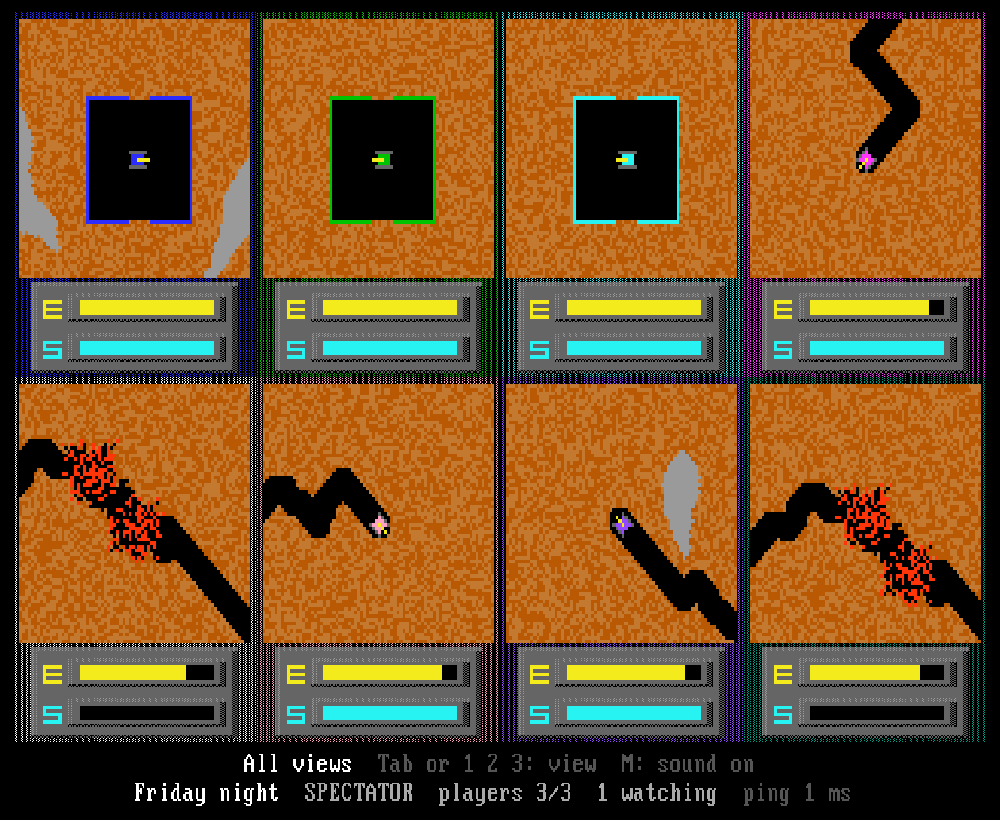
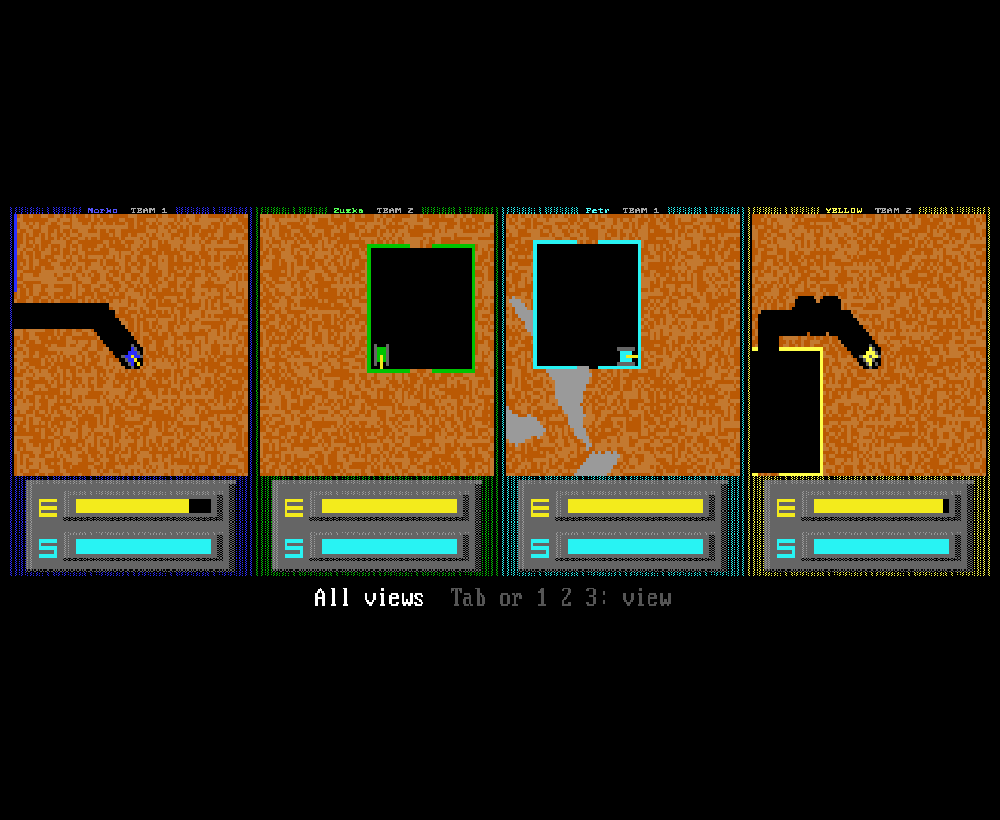
After death watch others within the view limit; README screenshots (tools/readme-screenshots.js)

diff --git a/tools/readme-screenshots.js b/tools/readme-screenshots.js
@@ -1,0 +1,82 @@
+// The README's screenshots (1000x820, screenshots/*.png) from a running server:
+//   PORT=8102 node server.js &      (a fresh one: it gets a few public test games)
+//   node tools/readme-screenshots.js 8102 screenshots
+// Needs playwright-core (not a dependency: npm i --no-save playwright-core) and a Chromium - set CHROME
+// to its executable (default: playwright's download in ~/.cache/ms-playwright). The browser runs with
+// the GPU off (software rendering).
+const { chromium } = require('playwright-core');
+const CHROME = process.env.CHROME || (() => {
+  const dir = require('path').join(require('os').homedir(), '.cache/ms-playwright');
+  const d = require('fs').readdirSync(dir).filter(n => n.startsWith('chromium-')).sort().pop();
+  return dir + '/' + d + '/chrome-linux64/chrome';
+})();
+const PORT = process.argv[2], OUT = process.argv[3], B = 'http://localhost:' + PORT;
+const sleep = ms => new Promise(r => setTimeout(r, ms));
+const api = async (body) => (await fetch(B + '/api/rooms', { method: 'POST', headers: { 'Content-Type': 'application/json' }, body: JSON.stringify(body) })).json();
+const S = (kind, team) => ({ kind, team });
+const fill = a => { while (a.length < 8) a.push(S('none', a.length + 1)); return a; };
+(async () => {
+  const b = await chromium.launch({ args: ['--disable-gpu', '--use-angle=swiftshader', '--use-gl=angle', '--disable-gpu-compositing'], executablePath: CHROME });
+  const errs = [];
+  const page = async (ls, url) => {
+    const ctx = await b.newContext({ viewport: { width: 1000, height: 820 } });
+    await ctx.addInitScript(o => { for (const k in o) localStorage.setItem(k, o[k]); }, ls || {});
+    const p = await ctx.newPage(); p.on('pageerror', e => errs.push(url + ': ' + e.message));
+    await p.goto(B + url); return p;
+  };
+  const shot = (p, f) => p.screenshot({ path: OUT + '/' + f });
+  const until = async (p, fn, ms = 30000) => { const t = Date.now(); while (Date.now() - t < ms) { if (await p.evaluate(fn).catch(() => false)) return true; await sleep(200); } return false; };
+  const hold = async (p, keys, ms) => { for (const k of keys) await p.keyboard.down(k); await sleep(ms); for (const k of keys) await p.keyboard.up(k); };
+  try {
+    // home
+    let p = await page({}, '/'); await sleep(1000); await shot(p, 'home.png'); await p.close();
+    // vs computer: 2 v 2 against computer tanks
+    p = await page({ 'tunneler.cpu.slots': JSON.stringify(fill([S('you', 1), S('hard', 2), S('normal', 1), S('hard', 2)])),
+      'tunneler.cpu.view': 'team', 'tunneler.cpu.time': '3', 'tunneler.cpu.watch': 'others' }, '/');
+    await sleep(800); await p.keyboard.press('ArrowDown'); await p.keyboard.press('Enter'); await sleep(500); await shot(p, 'vs-computer.png'); await p.close();
+    // split screen, both tanks digging
+    p = await page({}, '/play.html?mode=hotseat&size=medium&win=3');
+    await until(p, () => tunnelerEngine().screen === 'play');
+    await hold(p, ['KeyS', 'ArrowUp'], 1800); await hold(p, ['KeyD', 'ArrowLeft'], 1600); await hold(p, ['KeyS', 'KeyD', 'ArrowUp', 'ArrowLeft'], 900);
+    await sleep(300); await shot(p, 'split-screen.png'); await p.close();
+    // public games for the list
+    const main = await api({ name: 'Friday night', public: true, spectators: true, size: 'medium', winScore: 3, roundTime: 3, friendlyFire: false,
+      visible: 'team', watchOut: 'others', slots: fill([S('human', 1), S('human', 2), S('human', 1), S('hard', 2)]) });
+    await api({ name: 'Duel at dawn', public: true, spectators: true, slots: fill([S('human', 1), S('human', 2)]) });
+    await api({ name: 'Team rumble', public: true, spectators: true, size: 'large', winScore: 5, slots: fill([S('human', 1), S('expert', 2), S('human', 1), S('expert', 2), S('human', 1), S('expert', 2), S('human', 1), S('expert', 2)]) });
+    await api({ name: 'Żółw vs 王小明', public: true, spectators: false, size: 'small', slots: fill([S('human', 1), S('human', 2), S('easy', 3)]) });
+    p = await page({ 'tunneler.online': JSON.stringify({ size: 'medium', winScore: 3, roundTime: 3, friendlyFire: false, visible: 'team', watchOut: 'others',
+      slots: fill([S('human', 1), S('human', 2), S('human', 1), S('hard', 2)]) }) }, '/lobby.html'); await sleep(1200); await shot(p, 'lobby.png');
+    // the create screen
+    await p.evaluate(() => { const u = tunnelerLobbyUI(); u.sel = u.spec.items.findIndex(i => /create/i.test(i.key || '') || /Create/.test(i.label || '')); u.draw(); });
+    await p.keyboard.press('Enter'); await sleep(300);
+    await p.keyboard.type('Friday night'); await sleep(200);
+    await p.evaluate(() => { const u = tunnelerLobbyUI(); u.sel = u.spec.items.findIndex(i => i.key === 'slot3'); u.draw(); });
+    await shot(p, 'create.png'); await p.close();
+    // the online game: Norko (BLUE, host) + Petr (CYAN) against Zuzka (GREEN) + a hard computer tank (YELLOW)
+    const id = main.id, url = r => '/online.html?room=' + id + '&role=' + r;
+    const blue = await page({ ['tunneler.host.' + id]: main.hostKey, 'tunneler.name': 'Norko', 'tunneler.view': 'team', 'tunneler.ping': '1' }, url('blue'));
+    const green = await page({ 'tunneler.name': 'Zuzka' }, url('green'));
+    const cyan = await page({ 'tunneler.name': 'Petr' }, url('cyan'));
+    const spec = await page({ 'tunneler.name': 'Kiko' }, url('spectate'));
+    await sleep(2500);
+    for (const [pg, msg] of [[green, 'gl hf!'], [cyan, 'Привет! 👋 ready when you are']]) {
+      await pg.evaluate(() => { const u = tunnelerLobbyUI(); u.sel = u.spec.items.findIndex(i => i.key === 'say'); u.draw(); });
+      await pg.evaluate(m => { for (const ch of m) window.dispatchEvent(new KeyboardEvent('keydown', { key: ch, code: 'KeyQ', bubbles: true })); }, msg);
+      await pg.keyboard.press('Enter'); await sleep(300);
+      await pg.evaluate(() => { const u = tunnelerLobbyUI(); u.sel = u.spec.items.findIndex(i => i.key === 'start'); u.draw(); });
+      await pg.keyboard.press('Enter'); await sleep(500);
+    }
+    await blue.evaluate(() => { const u = tunnelerLobbyUI(); u.sel = u.spec.items.findIndex(i => i.key === 'start'); u.draw(); });
+    await sleep(800); await shot(blue, 'online-lobby.png');
+    await blue.keyboard.press('Enter');
+    await until(blue, () => tunnelerEngine().screen === 'play');
+    await Promise.all([hold(blue, ['KeyS'], 2500), hold(cyan, ['ArrowDown'], 2000), hold(green, ['ArrowLeft', 'ArrowUp'], 3000)]);
+    await Promise.all([hold(blue, ['KeyD', 'Space'], 2500), hold(cyan, ['ArrowRight', 'ArrowDown'], 2500), hold(green, ['KeyS'], 2000)]);
+    await Promise.all([hold(blue, ['KeyS', 'KeyD'], 1500), hold(cyan, ['ArrowRight'], 1500)]);
+    await sleep(500); await shot(blue, 'online-team.png');
+    await spec.keyboard.press('Digit1'); await sleep(800); await shot(spec, 'spectator-grid.png');
+    await spec.keyboard.press('Digit2'); await sleep(1200); await shot(spec, 'spectator-map.png');
+    console.log('errors', JSON.stringify(errs));
+  } finally { await b.close(); }
+})();

diff --git a/test/local-check.js b/test/local-check.js
@@ -343,6 +343,16 @@ function play(search) {
   e.killedBy = [0, 0, 0, 0, 0, 0];
   const alive = (...on) => { e.alive = [false, ...on]; return v.layout(); };
   same(alive(true, true, true, true, true).cells, [0, 3], "alive: the scope's views (own team)");
+  // view limit "team": only teammates are watched - not the enemy that shot you
+  e.killedBy[1] = 3;                                        // CYAN (team 2) shot you
+  same(alive(false, true, true, true, true).cells, [3], "team view: your teammate (YELLOW), not your killer");
+  same(alive(false, true, true, false, true).cells, [0, 3], "team view, no teammate left: the team's views (wrecks)");
+  alive(true, true, true, true, true);
+  v.setScope(0, "self");
+  same(alive(false, true, true, true, true).cells, [0], "self view: nobody else, your wreck");
+  alive(true, true, true, true, true);
+  v.setScope(0, "everyone");                                // (everyone: any tank alive)
+  e.killedBy[1] = 0;
   let L = alive(false, true, true, true, true);
   same([L.cells, !!L.labels], [[3], true], "out, no killer (energy): the first alive, own team's first (YELLOW)");
   alive(true, true, true, true, true);                      // (next round)
@@ -356,8 +366,8 @@ function play(search) {
   same(alive(false, true, false, true, true).cells, [4], "the watched one destroyed: its killer (TEAL)");
   e.killedBy[4] = 2;                                        // GREEN... but TEAL still alive: stays
   same(alive(false, true, false, true, true).cells, [4], "stays on the watched tank while it lives");
-  same(alive(false, false, false, false, false).cells, [0, 3], "nobody left: the scope's views");
-  same(alive(true, false, false, false, false).cells, [0, 3], "next round (own tank alive): back to normal");
+  same(alive(false, false, false, false, false).cells, [0, 1, 2, 3, 4], "nobody left: the scope's views");
+  same(alive(true, false, false, false, false).cells, [0, 1, 2, 3, 4], "next round (own tank alive): back to normal");
   assert.strictEqual(v.listenTo(0), 0, "own tank alive: sounds fade from it again");
   const off = play(link + "&view=team"), vo = off.tunnelerViews(), eo = off.tunnelerEngine();
   vo.snap = { screen: "play", mode: "lores", views: eo.views || [] };
@@ -375,10 +385,15 @@ function play(search) {
   same(vo.hearAt(0, eo), { x: 100, y: 10 }, "wreck: heard at the wreck, not at the killer");
   assert(!v.blackedOut(0, e), "others: never black");
   // classic (you BLUE against GREEN): out -> GREEN's half, labeled
-  const c = play("?mode=cpu&slots=0:you:1,1:normal:2&watch=1"), cv = c.tunnelerViews(), ce = c.tunnelerEngine();
+  {   // (view limit "self": nobody else to watch - your own half, the wreck)
+    const cs = play("?mode=cpu&slots=0:you:1,1:normal:2&watch=1"), csv = cs.tunnelerViews(), cse = cs.tunnelerEngine();
+    csv.snap = { screen: "play", mode: "lores" }; cse.alive = [false, false, true];
+    same([csv.layout().kind, csv.layout().crop], ["display", "blue"], "classic out, own view only: still BLUE's half");
+  }
+  const c = play("?mode=cpu&slots=0:you:1,1:normal:2&watch=1&view=everyone"), cv = c.tunnelerViews(), ce = c.tunnelerEngine();
   cv.snap = { screen: "play", mode: "lores" };
   ce.alive = [false, true, true];
-  same([cv.layout().kind, cv.layout().crop], ["display", "blue"], "classic alive: BLUE's half");
+  same(cv.layout().cells, [0, 1], "classic alive, everyone: both halves");
   ce.alive = [false, false, true];
   same([cv.layout().kind, cv.layout().cells, !!cv.layout().labels], ["grid", [1], true], "classic out: GREEN's half");
   // you in another color: the marker follows "you"

diff --git a/src/js/views.js b/src/js/views.js
@@ -119,23 +119,26 @@ class ViewModes {
   }
   // after death "others": the own tank is destroyed - one view: the tank that destroyed the one watched
   // (following the chain while those are destroyed too), else the first still alive (own team's first,
-  // then slot order); it stays on that tank while it lives. null while the own tank is alive (or nobody
-  // is left, or another setting)
+  // then slot order); it stays on that tank while it lives. Only tanks within the view limit: "team" -
+  // teammates only, "self" - none (the views stay on the wreck). null while the own tank is alive (or
+  // nobody allowed is left, or another setting)
   outCells() {
     const e = this.engine();
     if (this.watchOut !== "others" || !this.scope || !e || !e.alive) { this.ghost = null; return null; }
     const n = this.nPlayers(), own = Math.min(this.scope.own, n - 1);
     if (e.alive[own + 1]) { this.ghost = null; return null; }
+    // only tanks the view limit lets this player see: "team" - teammates, "self" - nobody else
+    const mate = i => e.extended && e.team ? e.team(i + 1) === e.team(own + 1) : false;
+    const v = this.scope.view, allowed = i => v === "everyone" || (v === "team" && mate(i));
     let t = this.ghost == null ? own : this.ghost;
-    for (let k = 0; k < n && !e.alive[t + 1]; k++) {
+    for (let k = 0; k < n && !(e.alive[t + 1] && allowed(t)); k++) {
       const by = e.killedBy ? e.killedBy[t + 1] | 0 : 0;
       if (!by || by - 1 === t) break;
       t = by - 1;
     }
-    if (!e.alive[t + 1]) {
-      const mate = i => e.extended && e.team ? e.team(i + 1) === e.team(own + 1) : false;
+    if (!(e.alive[t + 1] && allowed(t))) {
       const alive = [];
-      for (let i = 0; i < n; i++) if (e.alive[i + 1]) alive.push(i);
+      for (let i = 0; i < n; i++) if (e.alive[i + 1] && allowed(i)) alive.push(i);
       if (!alive.length) { this.ghost = null; return null; }
       t = alive.filter(mate).concat(alive.filter(i => !mate(i)))[0];
     }

diff --git a/CLAUDE.md b/CLAUDE.md
@@ -390,7 +390,8 @@ the room info): the most a player may choose to see during play - display only, 
   tank is destroyed, until the round ends - "black" = every destroyed tank's view black with DESTROYED,
   "wreck" (default) = the view stays on the wreck, "others" = one view: the tank that destroyed the
   watched one (`engine.killedBy`, display only, not in stateHash; followed along the chain), else the
-  first one alive (own team first); it stays on that tank while it lives.
+  first one alive (own team first); it stays on that tank while it lives. Only tanks within the view
+  limit (scope): "team" - teammates only (an enemy killer is skipped), "self" - nobody (the wreck).
 - Server: rooms nobody plays in (no human player activity) for 10 minutes are closed with an "idle"
   reason; readable start-up errors (port < 1024, in use, invalid PORT).
 - AI: exploration waypoints only in the reachable interior (`TunnelerAI.interior`, shared 8x8 rock
@@ -468,3 +469,5 @@ the room info): the most a player may choose to see during play - display only, 
 - lobby.html: until the server first answers, `connecting()` shows "Connecting to the server..." + the
   server's address (after 300 ms; the wake-up hint after 3 s or a failed request), Esc / Back to the
   main menu; one request at a time (`poll()`), the 2 s polling keeps retrying.
+- README screenshots: `tools/readme-screenshots.js <port> screenshots` against a fresh local server
+  (scripted session: menus, split screen, a 4-tank online game with chat, spectator views; GPU off).

diff --git a/README.md b/README.md
@@ -46,7 +46,8 @@ Settings (split screen: map size, rounds to win and round time only):
 - **Friendly fire** - on or off in team games (off: a shot at a teammate explodes like on a wall).
 - **View limit** - the most a player may see during play: their own view, their team's or everybody's.
 - **After death** - what you see once your tank is destroyed, until the round ends: a black DESTROYED
-  screen, your wreck (the original), or the tank that destroyed you (else another one still alive).
+  screen, your wreck (the original), or the tank that destroyed you (else another one still alive) -
+  within the view limit: with "team" only your teammates.
 
 The homepage's **Settings** screen holds the language, the **sound** - muted, original (the PC speaker),
 realistic or cartoony (a sample plays when you change it) - and **Show ping** (your round-trip time as

diff --git a/CHANGELOG.md b/CHANGELOG.md
@@ -5,6 +5,9 @@ every push to `main` is released (see CONTRIBUTING.md).
 
 ## Unreleased
 
+- README screenshots updated (tools/readme-screenshots.js makes them).
+- After death "watch others" respects the view limit: with "team" you only watch your teammates
+  (never the opponent), with "self" you stay on your wreck.
 - Online game: while the server doesn't answer yet (e.g. waking up on a free host), the lobby says
   "Connecting to the server..." with its address instead of a black screen; Esc goes back.
 
